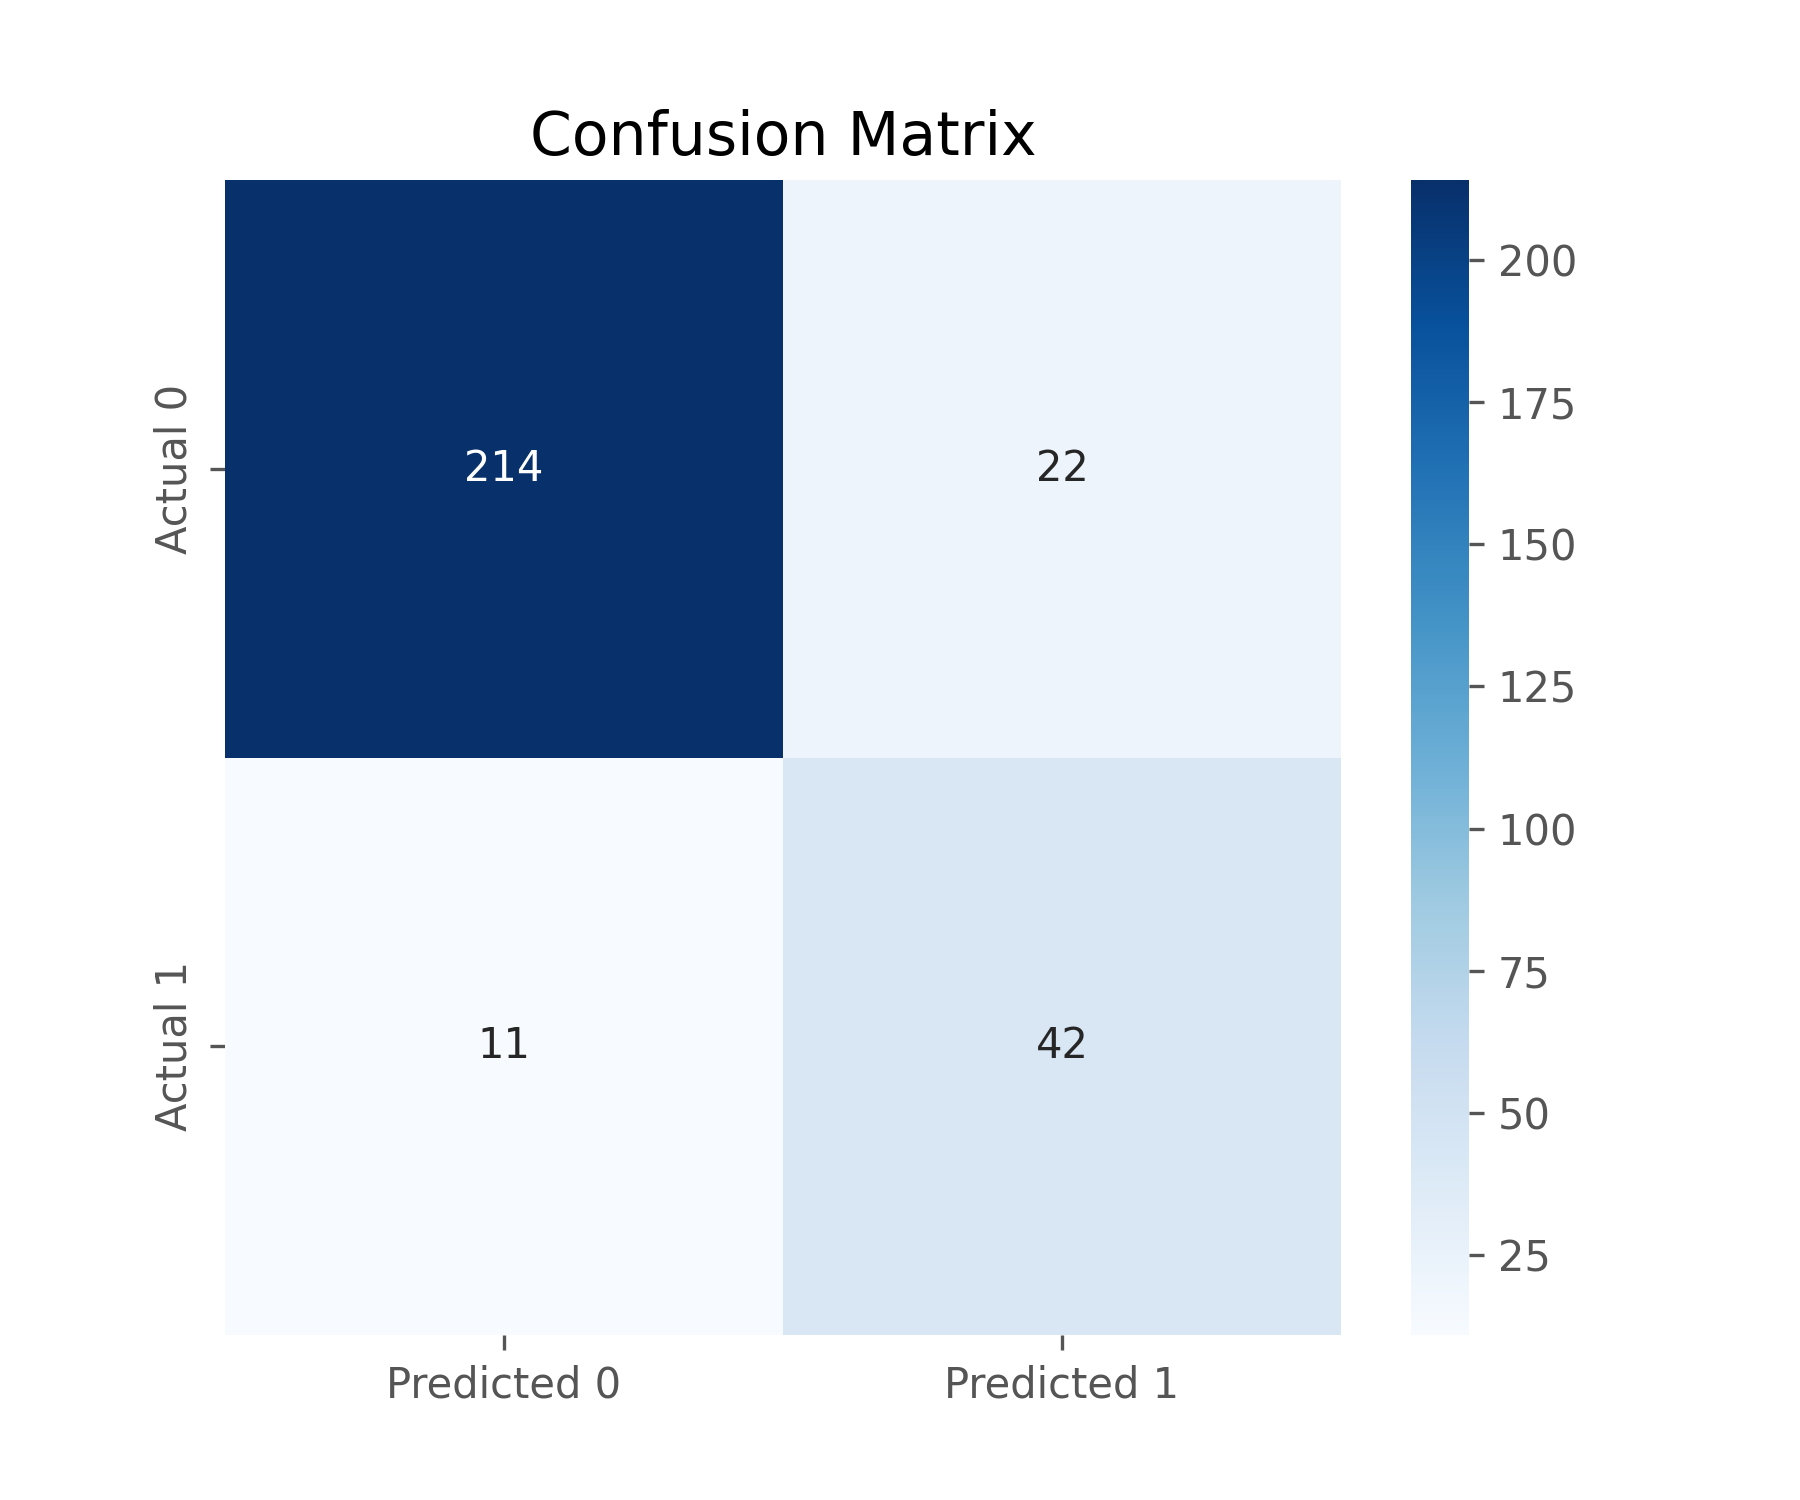
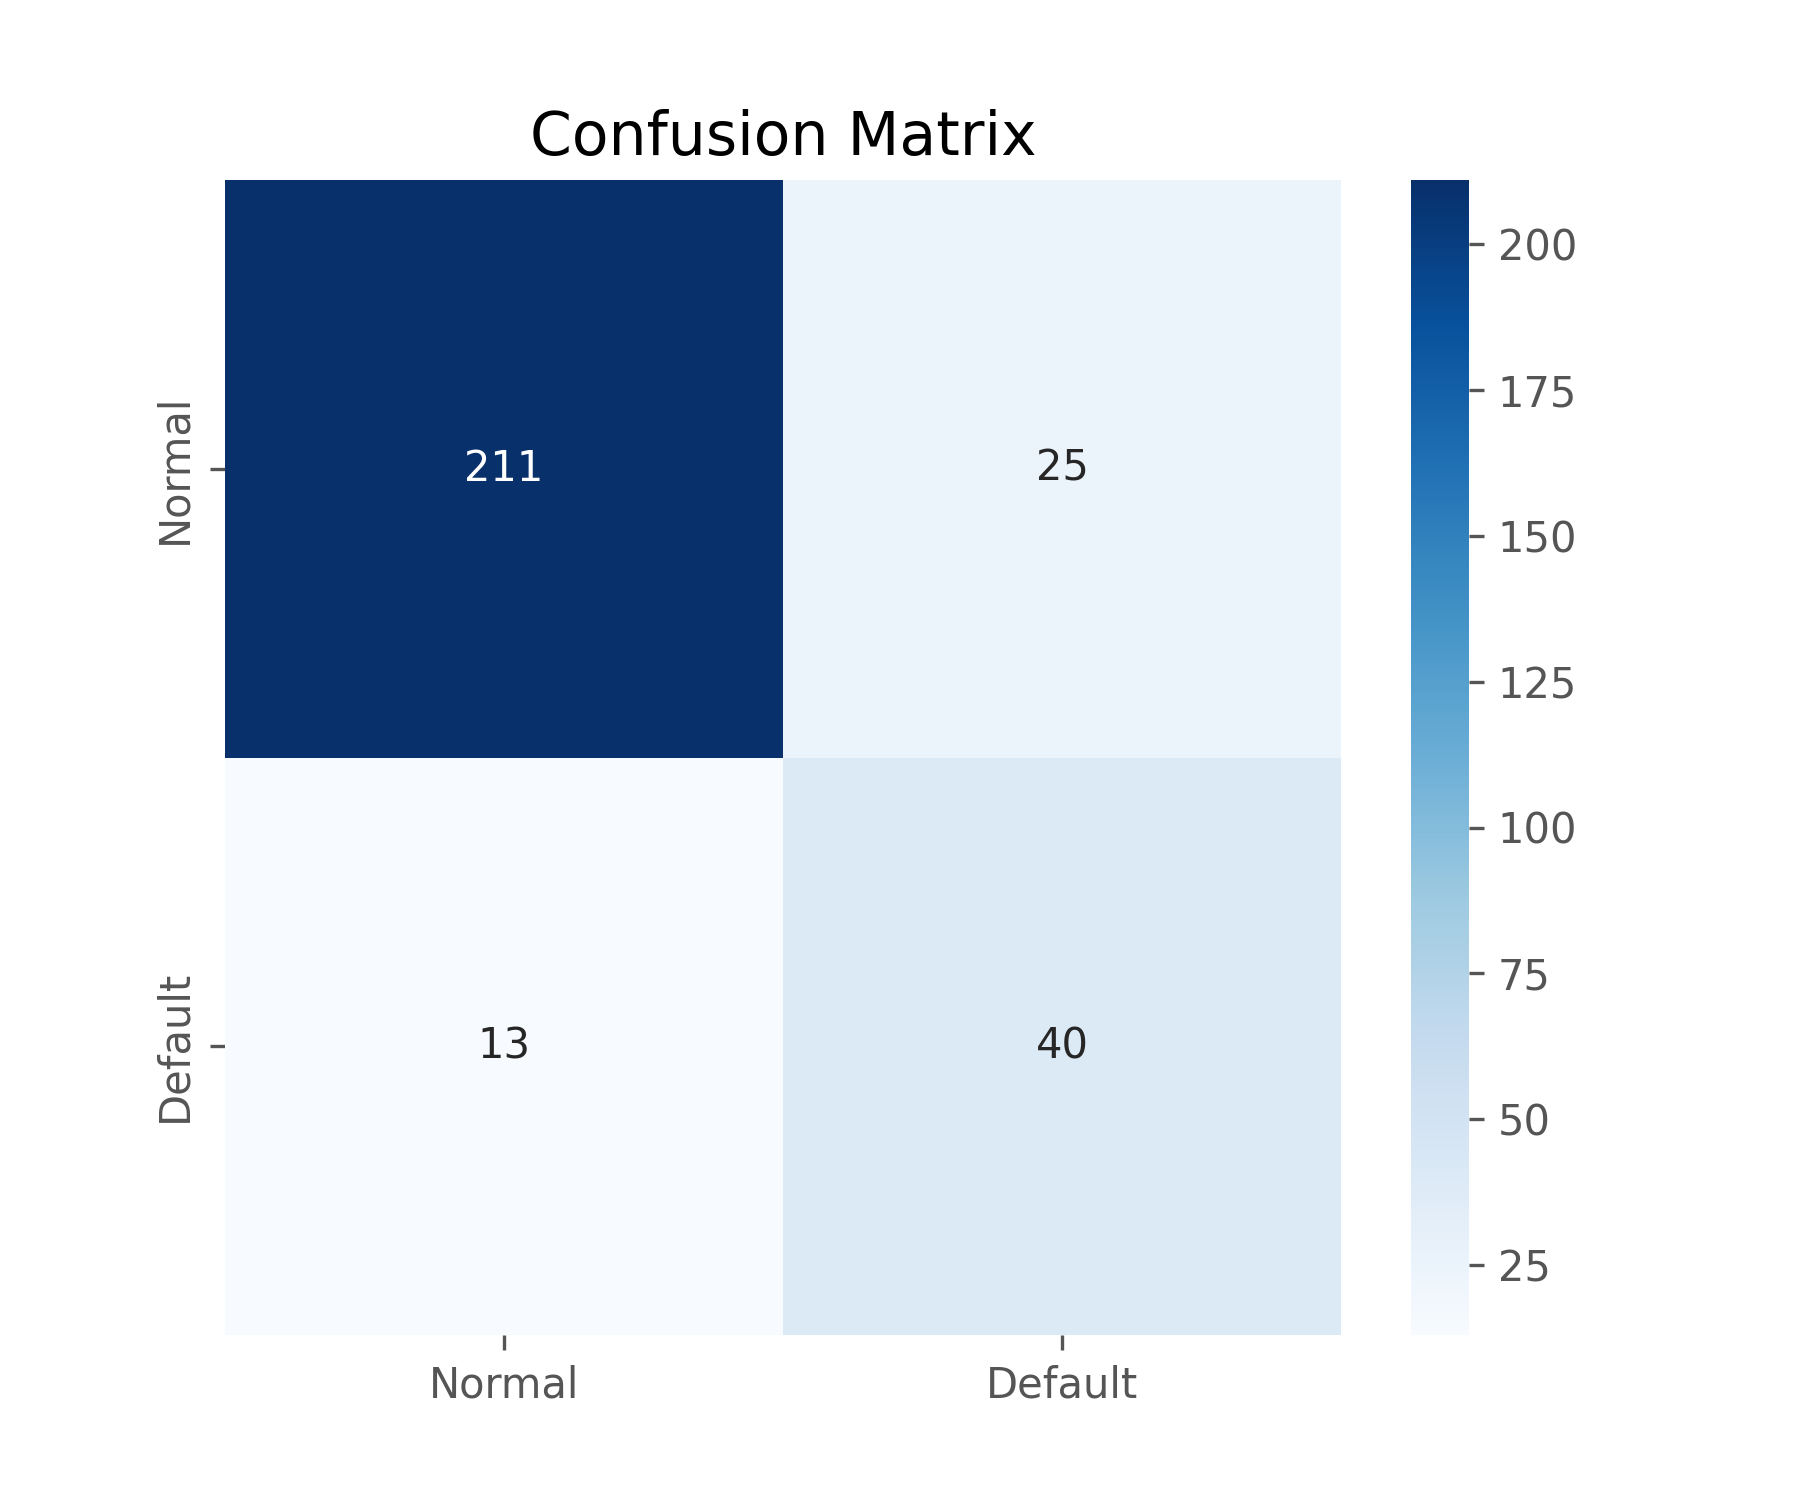
shap

diff --git a/MLP.py b/MLP.py
@@ -1,9 +1,9 @@
 """
-基于神经网络的上市公司股权质押违约预测模型
-包含数据预处理、模型训练、评估可视化和结果保存
+基于多层感知机(MLP)的上市公司股权质押违约预测模型
+包含数据预处理、模型训练、评估可视化、SHAP解释和结果保存
 """
 
-# ===============================导入必要库===============================
+# ===============================导入核心库===============================
 import os
 import pandas as pd
 import numpy as np
@@ -14,8 +14,9 @@ from sklearn.metrics import (
     roc_auc_score,
     confusion_matrix,
     RocCurveDisplay,
+    classification_report,
 )
-from sklearn.utils.class_weight import compute_class_weight
+from sklearn.utils.class_weight import compute_class_weight  # 添加这行导入
 
 # ===============================可视化库===============================
 import matplotlib.pyplot as plt
@@ -27,7 +28,12 @@ from tensorflow.keras.layers import Dense, Dropout
 from tensorflow.keras.callbacks import EarlyStopping
 from tensorflow.keras.optimizers import Adam
 
-# 创建保存结果的目录
+# ===============================SHAP解释库===============================
+import shap
+
+shap.initjs()
+
+# 创建结果目录
 os.makedirs("MLP", exist_ok=True)
 
 # 配置可视化样式
@@ -35,46 +41,61 @@ plt.style.use("ggplot")
 sns.set_palette("husl")
 
 
-# ===============================数据预处理函数===============================
+# ===============================数据预处理===============================
 def preprocess_data(df):
-    """处理带特殊字符的数值数据"""
+    """
+    数据预处理流程：
+    1. 处理带特殊字符的数值数据
+    2. 剔除ID列(第一列)
+    3. 转换空值为NaN
+    4. 统一转换为浮点型
+    """
+    # 剔除第一列(ID列)
+    df = df.iloc[:, 1:]
+
+    # 处理特殊字符
     df = df.astype(str)
     df = df.apply(lambda x: x.str.replace(",", "").str.strip())
     df = df.replace(r"^\s*$", np.nan, regex=True)
+
     return df.astype(float)
 
 
-# ===============================数据加载与预处理===============================
-# 读取训练数据
-train_df = pd.read_csv("data/train.csv", index_col="Stock code").pipe(preprocess_data)
+# ===============================数据加载与分割===============================
+print("正在加载和预处理数据...")
+train_df = pd.read_csv("data/train.csv").pipe(preprocess_data)
 
 # 分离特征和标签
-X = train_df.iloc[:, :-1]  # 前60列为特征
-y = train_df.iloc[:, -1]  # 最后一列为标签
+X = train_df.iloc[:, :-1]  # 特征列
+y = train_df.iloc[:, -1]  # 标签列
 
-# 分层分割数据集（80%训练+验证，20%最终测试）
-X_train_all, X_test, y_train_all, y_test = train_test_split(
+# 分层分割数据集(80%训练+验证，20%测试)
+X_train, X_test, y_train, y_test = train_test_split(
     X, y, test_size=0.2, stratify=y, random_state=42
 )
 
-# ===============================特征标准化===============================
+# 特征标准化
 scaler = StandardScaler()
-X_train_all_scaled = scaler.fit_transform(X_train_all)
+X_train_scaled = scaler.fit_transform(X_train)
 X_test_scaled = scaler.transform(X_test)
 
 # 进一步分割训练集为训练和验证集
 X_train_split, X_val_split, y_train_split, y_val_split = train_test_split(
-    X_train_all_scaled,
-    y_train_all,
-    test_size=0.2,
-    stratify=y_train_all,
-    random_state=42,
+    X_train_scaled, y_train, test_size=0.2, stratify=y_train, random_state=42
 )
 
 
 # ===============================模型构建===============================
 def build_model(input_dim):
-    """构建多层感知机模型"""
+    """
+    构建MLP模型架构：
+    - 输入层: 60个特征
+    - 隐藏层1: 64个神经元，ReLU激活，30% Dropout
+    - 隐藏层2: 32个神经元，ReLU激活，30% Dropout
+    - 输出层: 1个神经元，Sigmoid激活
+    - 优化器: Adam(lr=0.001)
+    - 损失函数: 二分类交叉熵
+    """
     model = Sequential(
         [
             Dense(64, activation="relu", input_shape=(input_dim,)),
@@ -85,26 +106,28 @@ def build_model(input_dim):
         ]
     )
 
-    optimizer = Adam(learning_rate=0.001)
     model.compile(
-        optimizer=optimizer, loss="binary_crossentropy", metrics=["accuracy", "auc"]
+        optimizer=Adam(learning_rate=0.001),
+        loss="binary_crossentropy",
+        metrics=["accuracy", "auc"],
     )
     return model
 
 
-model = build_model(60)
-
-# ===============================训练配置===============================
-# 早停法配置
-early_stop = EarlyStopping(monitor="val_loss", patience=10, restore_best_weights=True)
-
-# 类别权重计算（处理不平衡数据）
-class_weights = compute_class_weight(
-    "balanced", classes=np.unique(y_train_all), y=y_train_all
-)
-class_weights_dict = {0: class_weights[0], 1: class_weights[1]}
+print("构建模型中...")
+model = build_model(X_train.shape[1])
 
 # ===============================模型训练===============================
+# 类别权重处理不平衡数据
+print("计算类别权重...")
+class_weights = compute_class_weight("balanced", classes=np.unique(y_train), y=y_train)
+class_weights_dict = {0: class_weights[0], 1: class_weights[1]}
+print(f"类别权重: {class_weights_dict}")
+
+# 早停法防止过拟合
+early_stop = EarlyStopping(monitor="val_loss", patience=10, restore_best_weights=True)
+
+print("开始训练模型...")
 history = model.fit(
     X_train_split,
     y_train_split,
@@ -119,26 +142,24 @@ history = model.fit(
 
 # ===============================训练过程可视化===============================
 def plot_training_history(history):
-    """绘制训练指标变化曲线"""
-    plt.figure(figsize=(12, 5))
+    """绘制训练过程中的损失和AUC曲线"""
+    fig, (ax1, ax2) = plt.subplots(1, 2, figsize=(15, 5))
 
     # 损失曲线
-    plt.subplot(1, 2, 1)
-    plt.plot(history.history["loss"], label="Train Loss")
-    plt.plot(history.history["val_loss"], label="Validation Loss")
-    plt.title("Loss Evolution")
-    plt.xlabel("Epochs")
-    plt.ylabel("Loss")
-    plt.legend()
+    ax1.plot(history.history["loss"], label="Train Loss")
+    ax1.plot(history.history["val_loss"], label="Validation Loss")
+    ax1.set_title("Training and Validation Loss")
+    ax1.set_xlabel("Epoch")
+    ax1.set_ylabel("Loss")
+    ax1.legend()
 
     # AUC曲线
-    plt.subplot(1, 2, 2)
-    plt.plot(history.history["auc"], label="Train AUC")
-    plt.plot(history.history["val_auc"], label="Validation AUC")
-    plt.title("AUC Evolution")
-    plt.xlabel("Epochs")
-    plt.ylabel("AUC")
-    plt.legend()
+    ax2.plot(history.history["auc"], label="Train AUC")
+    ax2.plot(history.history["val_auc"], label="Validation AUC")
+    ax2.set_title("Training and Validation AUC")
+    ax2.set_xlabel("Epoch")
+    ax2.set_ylabel("AUC")
+    ax2.legend()
 
     plt.tight_layout()
     plt.savefig("MLP/training_history.png", dpi=300)
@@ -148,35 +169,70 @@ def plot_training_history(history):
 plot_training_history(history)
 
 
-# ===============================模型评估函数===============================
+# ===============================模型评估===============================
 def evaluate_model(model, X, y, threshold=0.5):
-    """执行完整模型评估流程"""
+    """
+    综合模型评估：
+    1. 计算准确率、AUC、精确率、召回率、F1等指标
+    2. 绘制混淆矩阵和ROC曲线
+    3. 保存所有评估结果到文件
+    """
     # 预测概率
     y_pred_proba = model.predict(X)
+    y_pred = (y_pred_proba > threshold).astype(int)
 
-    # 计算指标
-    acc = accuracy_score(y, (y_pred_proba > threshold).astype(int))
+    # 计算各项指标
+    acc = accuracy_score(y, y_pred)
     auc = roc_auc_score(y, y_pred_proba)
+    cm = confusion_matrix(y, y_pred)
+    cr = classification_report(y, y_pred, output_dict=True)
 
-    # 保存评估结果到文件
+    # 获取类别标签（处理不同类型的标签）
+    class_labels = [str(cls) for cls in sorted(np.unique(y))]
+
+    # 保存评估结果
     with open("MLP/evaluation_results.txt", "w") as f:
         f.write(f"Accuracy: {acc:.4f}\n")
-        f.write(f"AUC: {auc:.4f}\n")
+        f.write(f"AUC: {auc:.4f}\n\n")
+        f.write("Classification Report:\n")
 
-    print("\n评估结果:")
+        # 为每个类别写入指标
+        for cls in class_labels:
+            f.write(f"\nClass {cls}:\n")
+            f.write(f"Precision: {cr[cls]['precision']:.4f}\n")
+            f.write(f"Recall: {cr[cls]['recall']:.4f}\n")
+            f.write(f"F1-score: {cr[cls]['f1-score']:.4f}\n")
+            f.write(f"Support: {cr[cls]['support']}\n")
+
+        # 写入宏观和加权平均
+        f.write("\nMacro Avg:\n")
+        f.write(f"Precision: {cr['macro avg']['precision']:.4f}\n")
+        f.write(f"Recall: {cr['macro avg']['recall']:.4f}\n")
+        f.write(f"F1-score: {cr['macro avg']['f1-score']:.4f}\n")
+        f.write(f"Support: {cr['macro avg']['support']}\n")
+
+        f.write("\nWeighted Avg:\n")
+        f.write(f"Precision: {cr['weighted avg']['precision']:.4f}\n")
+        f.write(f"Recall: {cr['weighted avg']['recall']:.4f}\n")
+        f.write(f"F1-score: {cr['weighted avg']['f1-score']:.4f}\n")
+        f.write(f"Support: {cr['weighted avg']['support']}\n")
+
+    # 打印关键指标
+    print("\n评估指标:")
     print(f"Accuracy: {acc:.4f}")
     print(f"AUC: {auc:.4f}")
+    print("\n分类报告:")
+    print(classification_report(y, y_pred))
 
     # 绘制混淆矩阵
     plt.figure(figsize=(6, 5))
-    cm = confusion_matrix(y, (y_pred_proba > threshold).astype(int))
     sns.heatmap(
         cm,
         annot=True,
         fmt="d",
         cmap="Blues",
-        xticklabels=["Predicted 0", "Predicted 1"],
-        yticklabels=["Actual 0", "Actual 1"],
+        xticklabels=["Normal", "Default"],
+        yticklabels=["Normal", "Default"],
     )
     plt.title("Confusion Matrix")
     plt.savefig("MLP/confusion_matrix.png", dpi=300)
@@ -192,18 +248,84 @@ def evaluate_model(model, X, y, threshold=0.5):
     return acc, auc
 
 
-# 在测试集上进行最终评估
+print("\n在测试集上评估模型...")
 test_acc, test_auc = evaluate_model(model, X_test_scaled, y_test)
 
-# ===============================特征重要性可视化===============================
-# （可选：添加更多可视化分析）
-plt.figure(figsize=(10, 6))
-plt.bar(
-    range(len(model.layers[0].weights[0].numpy().mean(axis=1))),
-    model.layers[0].weights[0].numpy().mean(axis=1),
-)
-plt.title("Feature Importance (First Layer Weights)")
-plt.xlabel("Feature Index")
-plt.ylabel("Average Weight")
-plt.savefig("MLP/feature_importance.png", dpi=300)
-plt.show()
+
+# ===============================SHAP分析===============================
+def perform_shap_analysis(model, X_train_sample, X_test_sample, feature_names):
+    """
+    执行SHAP分析：
+    1. 计算特征重要性
+    2. 可视化全局特征重要性
+    3. 可视化个体样本解释
+    """
+    print("\n正在进行SHAP分析...")
+
+    try:
+        # 创建解释器 - 确保输入数据是numpy数组
+        background = (
+            X_train_sample
+            if isinstance(X_train_sample, np.ndarray)
+            else np.array(X_train_sample)
+        )
+        test_data = (
+            X_test_sample
+            if isinstance(X_test_sample, np.ndarray)
+            else np.array(X_test_sample)
+        )
+
+        # 检查形状一致性
+        if background.shape[1] != test_data.shape[1]:
+            raise ValueError(
+                f"特征数量不匹配: 背景数据{background.shape[1]}个特征, 测试数据{test_data.shape[1]}个特征"
+            )
+
+        explainer = shap.DeepExplainer(model, background)
+
+        # 计算SHAP值 - 确保只计算前50个样本
+        shap_values = explainer.shap_values(test_data[:50])  # 确保不超过50个样本
+
+        # SHAP值可能返回列表(多分类)或数组(二分类)
+        if isinstance(shap_values, list):
+            shap_values = shap_values[0]  # 对于二分类问题取第一个元素
+
+        # 全局特征重要性
+        plt.figure(figsize=(10, 6))
+        shap.summary_plot(
+            shap_values,
+            test_data[:50],
+            feature_names=feature_names,
+            plot_type="bar",
+            show=False,
+        )
+        plt.title("Global Feature Importance (SHAP)")
+        plt.tight_layout()
+        plt.savefig("MLP/shap_global_importance.png", dpi=300)
+        plt.show()
+
+        # 个体样本解释
+        plt.figure(figsize=(10, 6))
+        shap.summary_plot(
+            shap_values, test_data[:50], feature_names=feature_names, show=False
+        )
+        plt.title("Feature Impact on Model Output (SHAP)")
+        plt.tight_layout()
+        plt.savefig("MLP/shap_summary_plot.png", dpi=300)
+        plt.show()
+
+        # 保存SHAP值
+        np.save("MLP/shap_values.npy", shap_values)
+        print("SHAP分析完成!")
+
+    except Exception as e:
+        print(f"SHAP分析出错: {str(e)}")
+        import traceback
+
+        traceback.print_exc()
+
+
+# 使用子样本进行分析
+X_train_sample = X_train_scaled[:100]  # 背景样本
+X_test_sample = X_test_scaled[:50]  # 解释样本
+perform_shap_analysis(model, X_train_sample, X_test_sample, X.columns.tolist())
